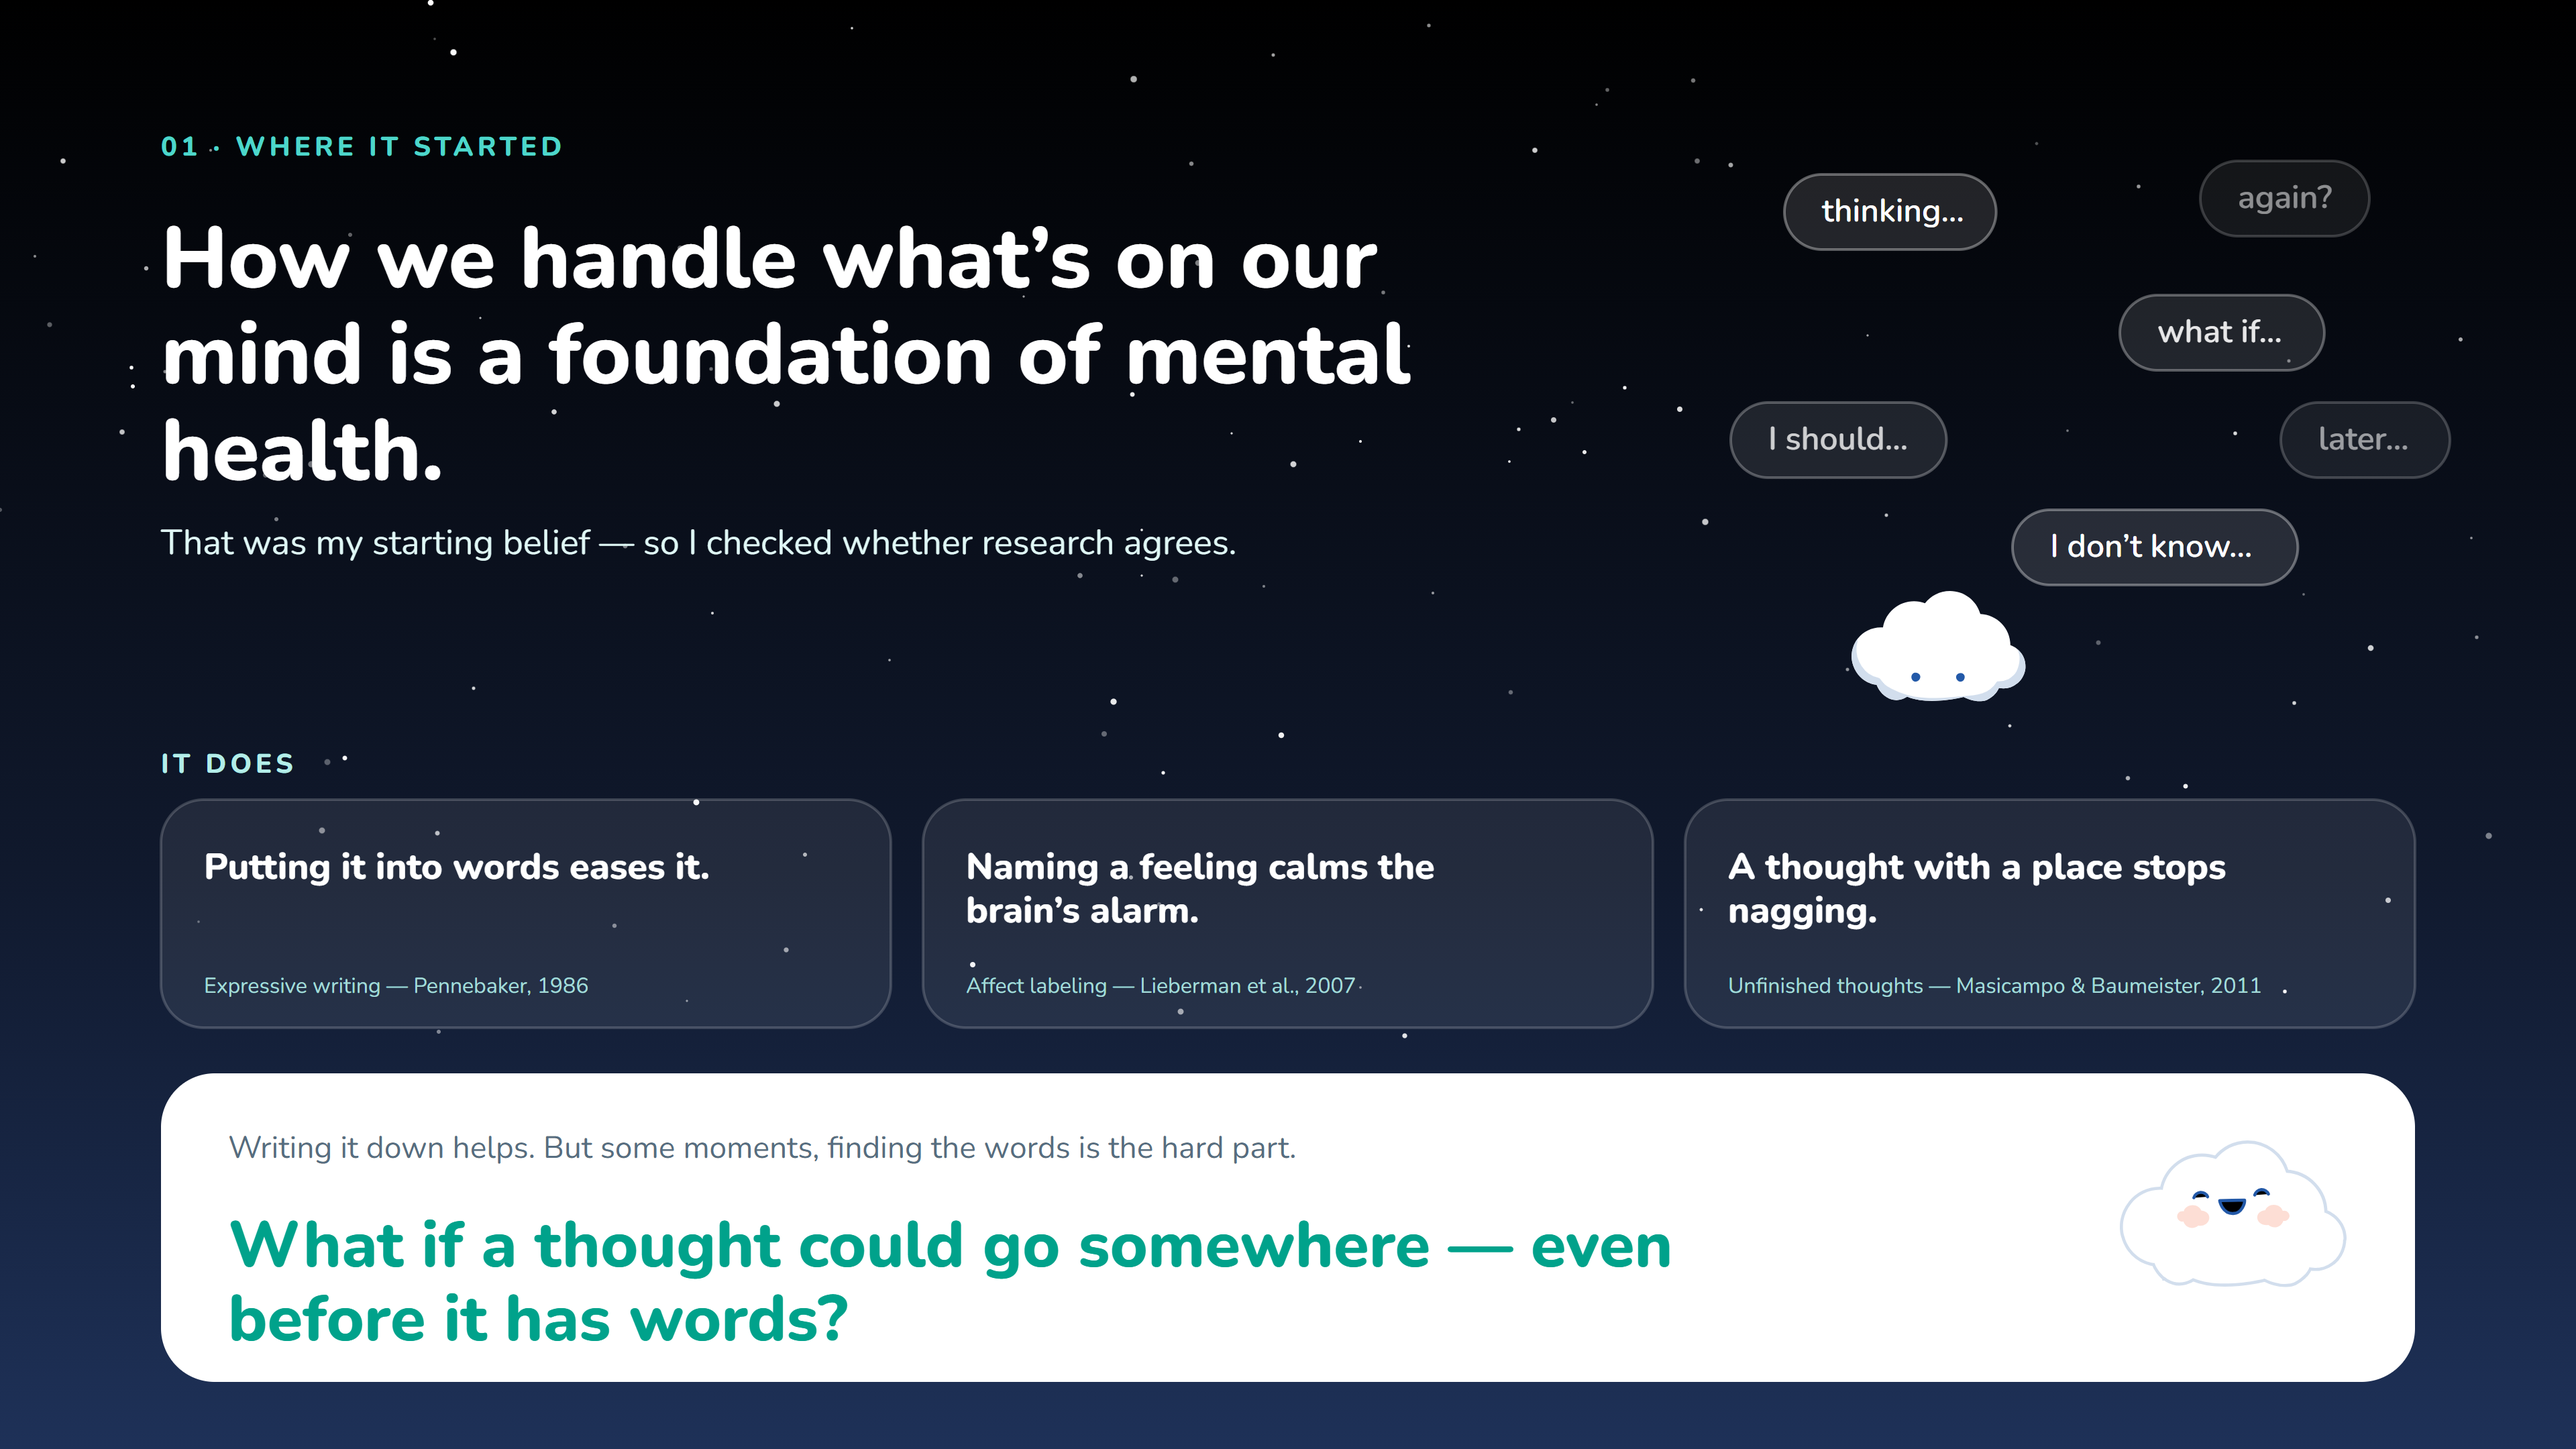
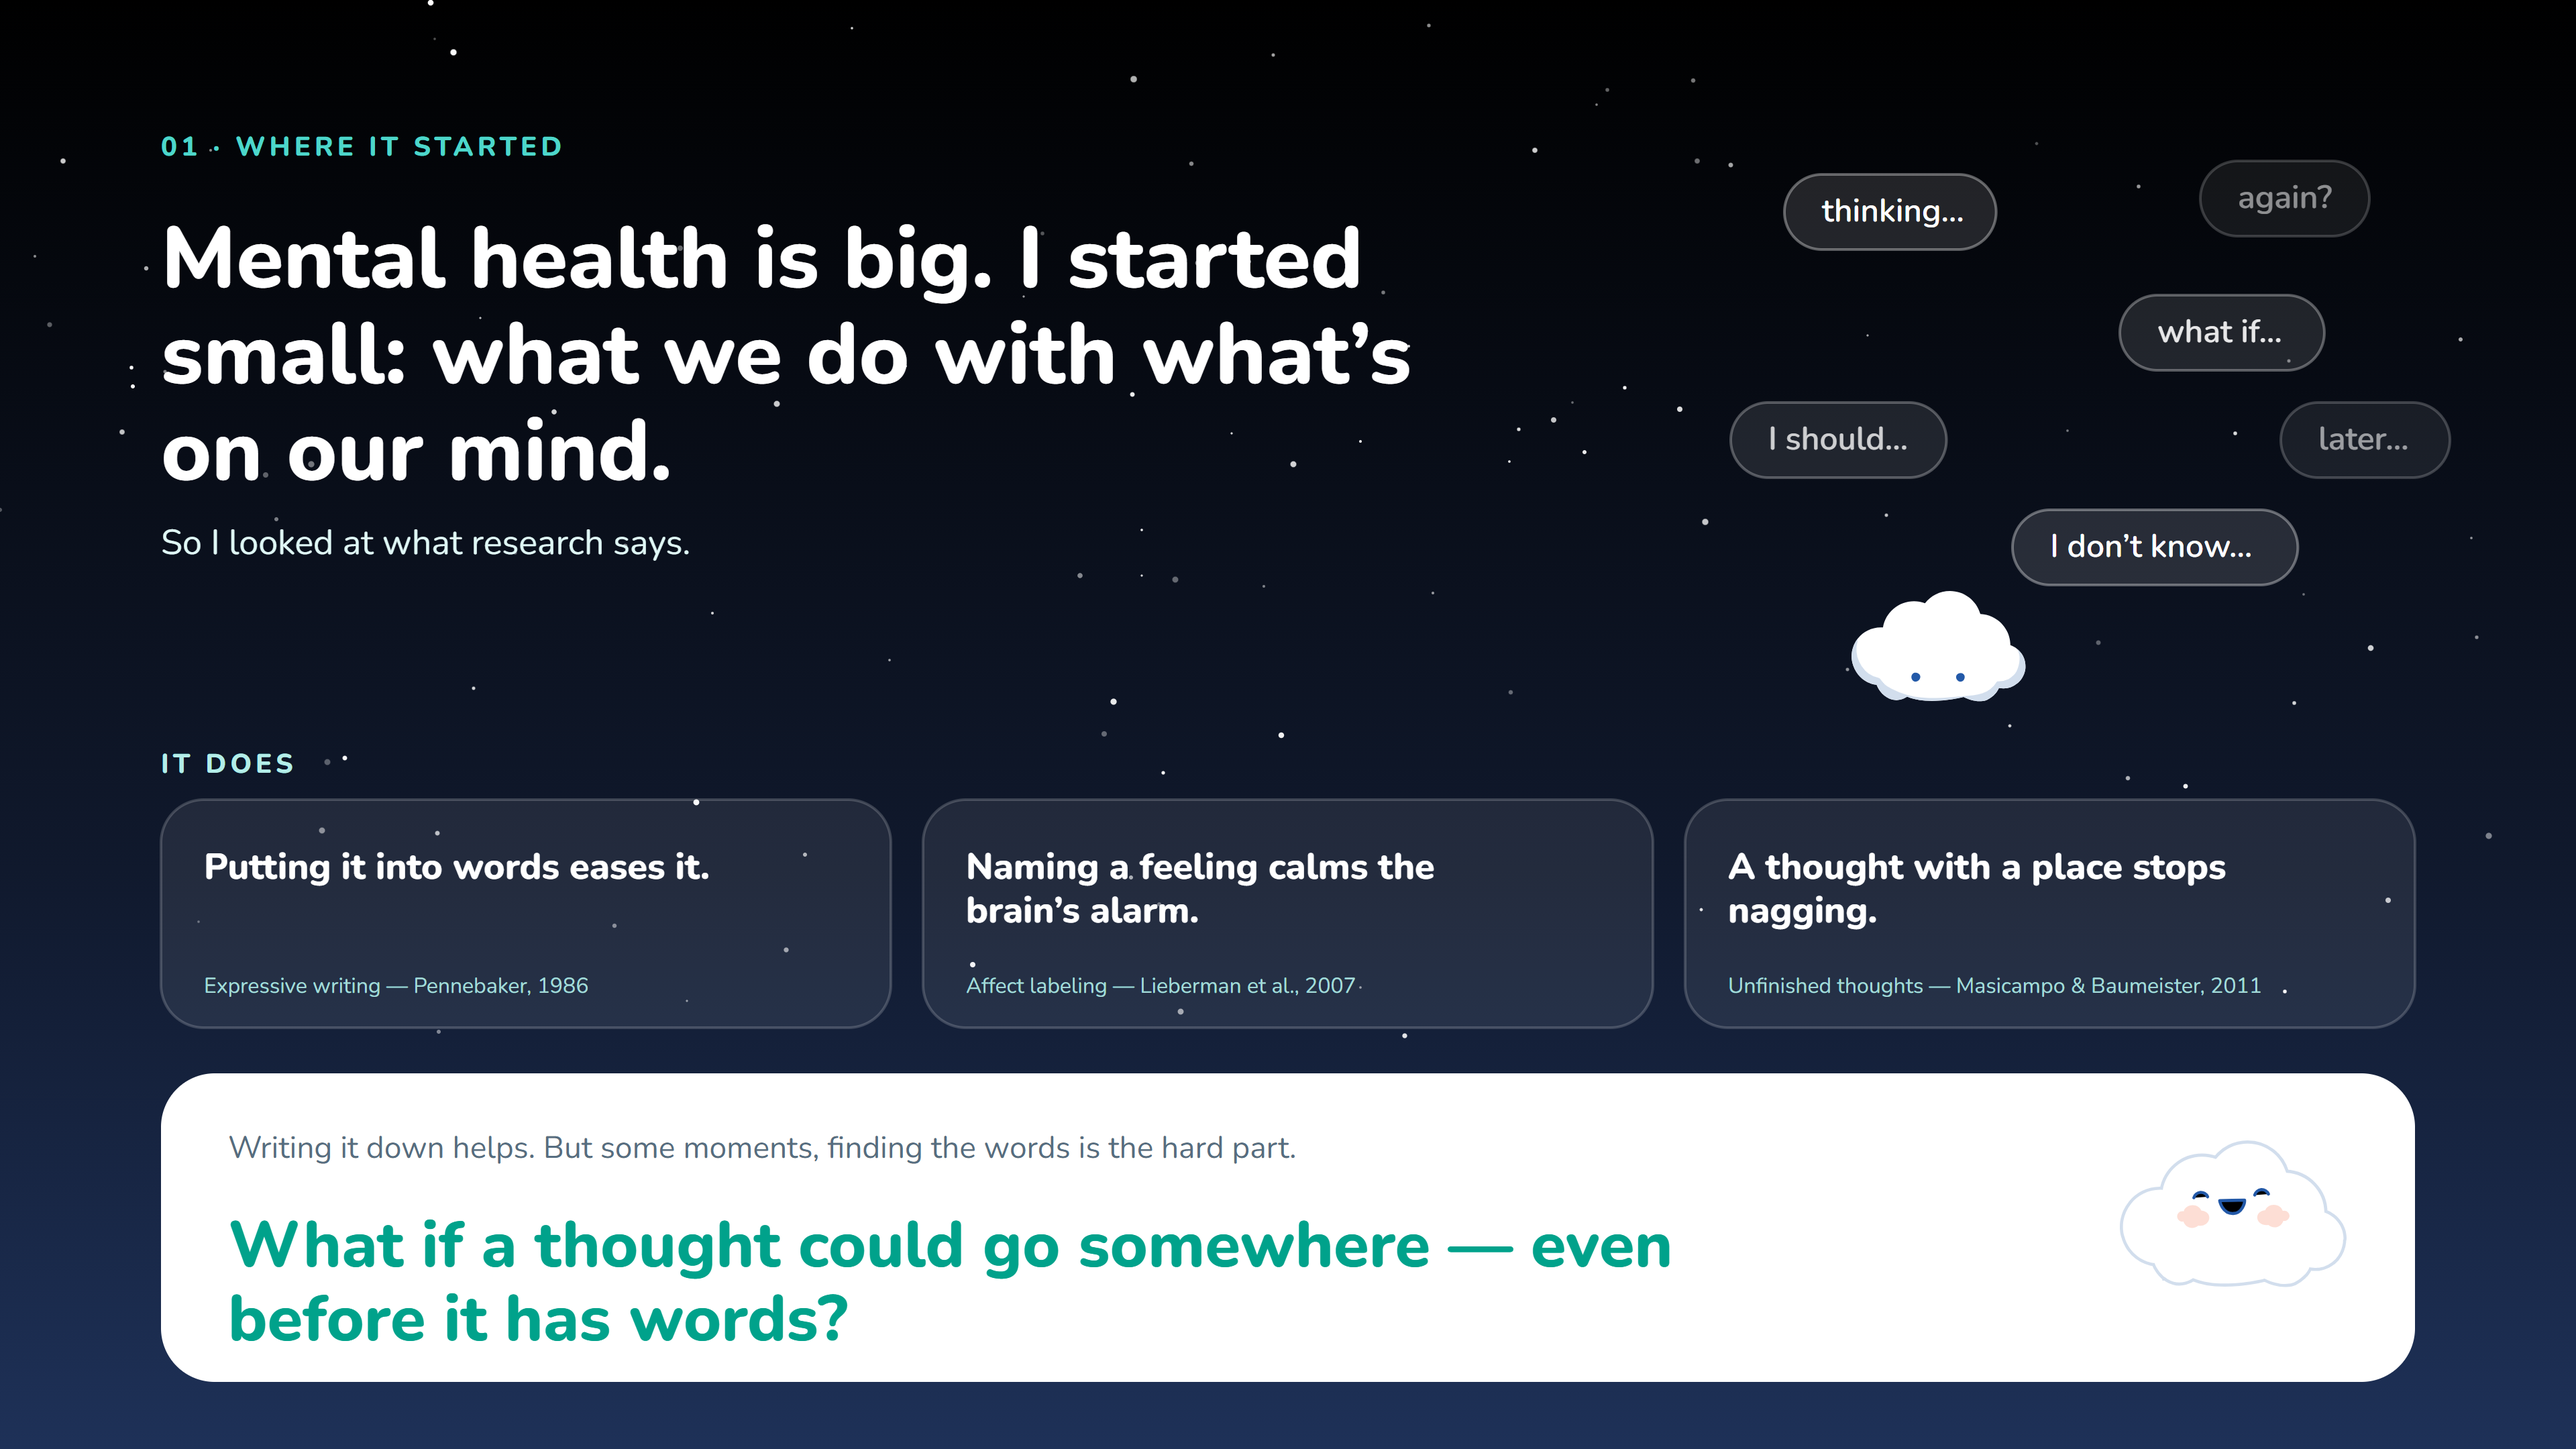
copy(deck): slide 01 opens with a scope, not a belief — mental health is big, I started small

Changed region(s): [[0.0625, 0.1551, 0.5625, 0.3412], [0.0625, 0.3722, 0.4688, 0.4032]]

diff --git a/README.md b/README.md
@@ -19,7 +19,7 @@ Topic: **The 2-Minute Mental Health Experience** (OOCA Assignment)
 ---
 
 ## 💡 Where the idea came from
-It started from a belief: getting what's on our mind out is a foundation of mental health (research agrees — expressive writing, Pennebaker 1986; affect labeling, Lieberman et al. 2007; unfinished thoughts, Masicampo & Baumeister 2011). Three things then came together:
+Mental health is big, so I started small: what we do with what's on our mind. Research says getting it out helps (expressive writing, Pennebaker 1986; affect labeling, Lieberman et al. 2007; unfinished thoughts, Masicampo & Baumeister 2011). Three things then came together:
 - **ooca's own mascot is a cloud** — a character its users already know.
 - **“Cloud of Thoughts”** — thoughts come and go like clouds, light or dark; we are not our thoughts, we're the one watching them.
 - **MyVoiceZoo** (a game where your recorded voice becomes the animals' cries) — two ideas from it: *your voice in a character* (hearing yourself feels less awkward) and *free arrangement* (place them where you like, near or far). In Thought Cloud, each thought is a Mooca that plays back in your voice, and you drag it anywhere in the sky you chose.
